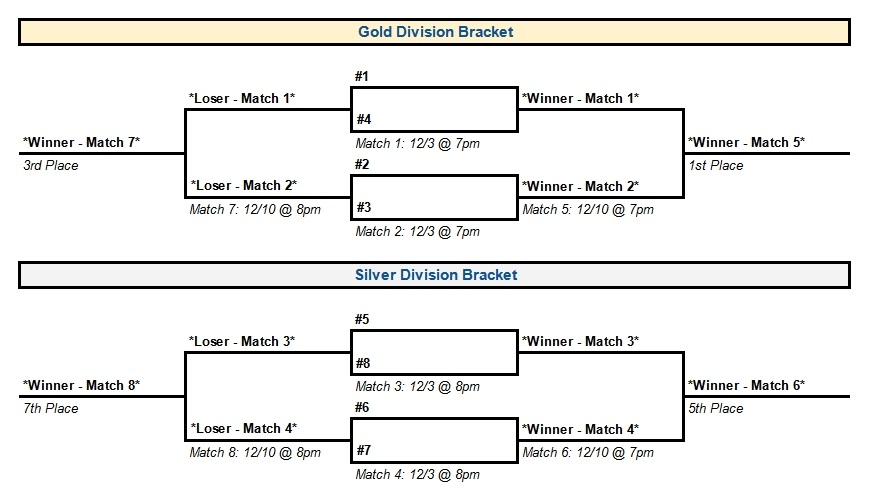
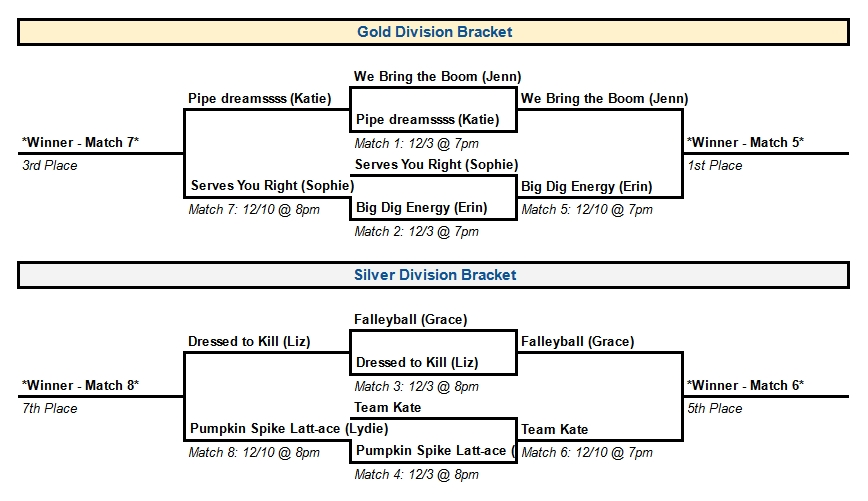
bracket updates

diff --git a/womens/dcwvb_fal24.html b/womens/dcwvb_fal24.html
@@ -924,22 +924,22 @@
         </tr>
         <tr>
           <td style="width:160px;text-align:left;border-top:solid;border-left:solid;border-right:1px solid black;background-color:GhostWhite;padding-left:3px;">We Bring The Boom</td>
-          <td style="width:30px;text-align:center;border-top:solid;border-left:1px solid black;border-right:solid;background-color:GhostWhite;"></td>
+          <td style="width:30px;text-align:center;border-top:solid;border-left:1px solid black;border-right:solid;background-color:GhostWhite;">2</td>
         </tr>
         <tr>
           <td style="width:160px;text-align:left;border-bottom:1px solid black;border-left:solid;border-right:1px solid black;background-color:GhostWhite;padding-left:3px;">Pipe dreamssss</td>
-          <td style="width:30px;text-align:center;border-bottom:1px solid black;border-left:1px solid black;border-right:solid;background-color:GhostWhite;"></td>
+          <td style="width:30px;text-align:center;border-bottom:1px solid black;border-left:1px solid black;border-right:solid;background-color:GhostWhite;">1</td>
         </tr>
         <tr>
           <th colspan="2" style="text-align:center;border-top:solid;border-bottom:solid;border-left:solid;border-right:solid;background-color:GhostWhite;">Court 2 - Match 2</th>
         </tr>
         <tr>
           <td style="width:160px;text-align:left;border-top:solid;border-left:1px solid black;border-right:1px solid black;border-left:solid;background-color:GhostWhite;padding-left:3px;">Serves You Right</td>
-          <td style="width:30px;text-align:center;border-top:solid;border-left:1px solid black;border-right:solid;background-color:GhostWhite;"></td>
+          <td style="width:30px;text-align:center;border-top:solid;border-left:1px solid black;border-right:solid;background-color:GhostWhite;">0</td>
         </tr>
         <tr>
           <td style="width:160px;text-align:left;border-bottom:1px solid black;border-left:1px solid black;border-right:1px solid black;border-left:solid;background-color:GhostWhite;padding-left:3px;">Big Dig Energy</td>
-          <td style="width:30px;text-align:center;border-bottom:1px solid black;border-left:1px solid black;border-right:solid;background-color:GhostWhite;"></td>
+          <td style="width:30px;text-align:center;border-bottom:1px solid black;border-left:1px solid black;border-right:solid;background-color:GhostWhite;">2</td>
         </tr>
         <tr>
           <th rowspan="6" style="text-align:center;border-top:solid;border-bottom:solid;border-left:solid;border-right:solid;background-color:LightGray;padding-left:5px;padding-right:5px;">8 PM</th>
@@ -947,22 +947,22 @@
         </tr>
         <tr>
           <td style="width:160px;text-align:left;border-top:solid;border-left:solid;border-right:1px solid black;background-color:LightGray;padding-left:3px;">Falleyball</td>
-          <td style="width:30px;text-align:center;border-top:solid;border-left:1px solid black;border-right:solid;background-color:LightGray;"></td>
+          <td style="width:30px;text-align:center;border-top:solid;border-left:1px solid black;border-right:solid;background-color:LightGray;">2</td>
         </tr>
         <tr>
           <td style="width:160px;text-align:left;border-bottom:1px solid black;border-left:solid;border-right:1px solid black;background-color:LightGray;padding-left:3px;">Dressed to Kill</td>
-          <td style="width:30px;text-align:center;border-bottom:1px solid black;border-left:1px solid black;border-right:solid;background-color:LightGray;"></td>
+          <td style="width:30px;text-align:center;border-bottom:1px solid black;border-left:1px solid black;border-right:solid;background-color:LightGray;">1</td>
         </tr>
         <tr>
           <th colspan="2" style="text-align:center;border-top:solid;border-bottom:solid;border-left:solid;border-right:solid;background-color:LightGray;">Court 2 - Match 4</th>
         </tr>
         <tr>
           <td style="width:160px;text-align:left;border-top:solid;border-left:1px solid black;border-right:1px solid black;border-left:solid;background-color:LightGray;padding-left:3px;">Team Kate</td>
-          <td style="width:30px;text-align:center;border-top:solid;border-left:1px solid black;border-right:solid;background-color:LightGray;"></td>
+          <td style="width:30px;text-align:center;border-top:solid;border-left:1px solid black;border-right:solid;background-color:LightGray;">2</td>
         </tr>
         <tr>
-          <td style="width:160px;text-align:left;border-bottom:solid;border-left:1px solid black;border-right:1px solid black;border-left:solid;background-color:LightGray;padding-left:3px;">Pumpkin Spice Latt-ace</td>
-          <td style="width:30px;text-align:center;border-bottom:solid;border-left:1px solid black;border-right:solid;background-color:LightGray;"></td>
+          <td style="width:160px;text-align:left;border-bottom:solid;border-left:1px solid black;border-right:1px solid black;border-left:solid;background-color:LightGray;padding-left:3px;">Pumpkin Spike Latt-ace</td>
+          <td style="width:30px;text-align:center;border-bottom:solid;border-left:1px solid black;border-right:solid;background-color:LightGray;">1</td>
         </tr>
       </table>
     </div>
@@ -977,22 +977,22 @@
           <th colspan="2" style="text-align:center;border-top:solid;border-bottom:solid;border-left:solid;border-right:solid;background-color:GhostWhite;">Court 1 - 1st Place</th>
         </tr>
         <tr>
-          <td style="width:160px;text-align:left;border-top:solid;border-left:solid;border-right:1px solid black;background-color:GhostWhite;padding-left:3px;">Winner - Match 1</td>
+          <td style="width:160px;text-align:left;border-top:solid;border-left:solid;border-right:1px solid black;background-color:GhostWhite;padding-left:3px;">We Bring the Boom</td>
           <td style="width:30px;text-align:center;border-top:solid;border-left:1px solid black;border-right:solid;background-color:GhostWhite;"></td>
         </tr>
         <tr>
-          <td style="width:160px;text-align:left;border-bottom:1px solid black;border-left:solid;border-right:1px solid black;background-color:GhostWhite;padding-left:3px;">Winner - Match 2</td>
+          <td style="width:160px;text-align:left;border-bottom:1px solid black;border-left:solid;border-right:1px solid black;background-color:GhostWhite;padding-left:3px;">Big Dig Energy</td>
           <td style="width:30px;text-align:center;border-bottom:1px solid black;border-left:1px solid black;border-right:solid;background-color:GhostWhite;"></td>
         </tr>
         <tr>
           <th colspan="2" style="text-align:center;border-top:solid;border-bottom:solid;border-left:solid;border-right:solid;background-color:GhostWhite;">Court 2 - 5th Place</th>
         </tr>
         <tr>
-          <td style="width:160px;text-align:left;border-top:solid;border-left:1px solid black;border-right:1px solid black;border-left:solid;background-color:GhostWhite;padding-left:3px;">Winner - Match 3</td>
+          <td style="width:160px;text-align:left;border-top:solid;border-left:1px solid black;border-right:1px solid black;border-left:solid;background-color:GhostWhite;padding-left:3px;">Falleyball</td>
           <td style="width:30px;text-align:center;border-top:solid;border-left:1px solid black;border-right:solid;background-color:GhostWhite;"></td>
         </tr>
         <tr>
-          <td style="width:160px;text-align:left;border-bottom:1px solid black;border-left:1px solid black;border-right:1px solid black;border-left:solid;background-color:GhostWhite;padding-left:3px;">Winner - Match 4</td>
+          <td style="width:160px;text-align:left;border-bottom:1px solid black;border-left:1px solid black;border-right:1px solid black;border-left:solid;background-color:GhostWhite;padding-left:3px;">Team Kate</td>
           <td style="width:30px;text-align:center;border-bottom:1px solid black;border-left:1px solid black;border-right:solid;background-color:GhostWhite;"></td>
         </tr>
         <tr>
@@ -1000,22 +1000,22 @@
           <th colspan="2" style="text-align:center;border-top:solid;border-bottom:solid;border-left:solid;border-right:solid;background-color:LightGray;">Court 1 - 3rd Place</th>
         </tr>
         <tr>
-          <td style="width:160px;text-align:left;border-top:solid;border-left:solid;border-right:1px solid black;background-color:LightGray;padding-left:3px;">Loser - Match 1</td>
+          <td style="width:160px;text-align:left;border-top:solid;border-left:solid;border-right:1px solid black;background-color:LightGray;padding-left:3px;">Pipe dreamssss</td>
           <td style="width:30px;text-align:center;border-top:solid;border-left:1px solid black;border-right:solid;background-color:LightGray;"></td>
         </tr>
         <tr>
-          <td style="width:160px;text-align:left;border-bottom:1px solid black;border-left:solid;border-right:1px solid black;background-color:LightGray;padding-left:3px;">Loser - Match 2</td>
+          <td style="width:160px;text-align:left;border-bottom:1px solid black;border-left:solid;border-right:1px solid black;background-color:LightGray;padding-left:3px;">Serves You Right</td>
           <td style="width:30px;text-align:center;border-bottom:1px solid black;border-left:1px solid black;border-right:solid;background-color:LightGray;"></td>
         </tr>
         <tr>
           <th colspan="2" style="text-align:center;border-top:solid;border-bottom:solid;border-left:solid;border-right:solid;background-color:LightGray;">Court 2 - 7th Place</th>
         </tr>
         <tr>
-          <td style="width:160px;text-align:left;border-top:solid;border-left:1px solid black;border-right:1px solid black;border-left:solid;background-color:LightGray;padding-left:3px;">Loser - Match 3</td>
+          <td style="width:160px;text-align:left;border-top:solid;border-left:1px solid black;border-right:1px solid black;border-left:solid;background-color:LightGray;padding-left:3px;">Dressed to Kill</td>
           <td style="width:30px;text-align:center;border-top:solid;border-left:1px solid black;border-right:solid;background-color:LightGray;"></td>
         </tr>
         <tr>
-          <td style="width:160px;text-align:left;border-bottom:solid;border-left:1px solid black;border-right:1px solid black;border-left:solid;background-color:LightGray;padding-left:3px;">Loser - Match 4</td>
+          <td style="width:160px;text-align:left;border-bottom:solid;border-left:1px solid black;border-right:1px solid black;border-left:solid;background-color:LightGray;padding-left:3px;">Pumpkin Spike Latt-ace</td>
           <td style="width:30px;text-align:center;border-bottom:solid;border-left:1px solid black;border-right:solid;background-color:LightGray;"></td>
         </tr>
       </table>
@@ -1023,7 +1023,7 @@
 
     <div id="BR" style="display:none;margin-left:10px;margin-top:10px;margin-right:10px;margin-bottom:10px;">
       <div>
-        <img title="Bracket" style="height:100%;width:min(870px,100%);" src="../images/dcwvb/dcwvb_fal24_bracket.png">
+        <img title="Bracket" style="height:100%;width:min(868px,100%);" src="../images/dcwvb/dcwvb_fal24_bracket.png">
       </div>
     </div>
 

diff --git a/coed/dvb_fal24.html b/coed/dvb_fal24.html
@@ -1570,7 +1570,7 @@
 
     <div id="BR" style="display:none;margin-left:10px;margin-top:10px;margin-right:10px;margin-bottom:10px;">
       <div>
-        <img title="Bracket" style="height:min(758px,100%);width:min(873px,100%);" src="../images/dvb/dvb_fal24_bracket.png">
+        <img title="Bracket" style="height:min(760px,100%);width:min(867px,100%);" src="../images/dvb/dvb_fal24_bracket.png">
       </div>
     </div>
 
